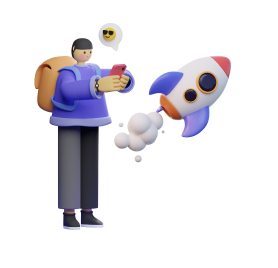
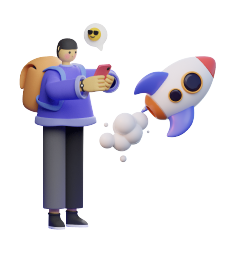
Signup Page Completed

Changed region(s): [[0.0609, 0.1493, 0.9435, 0.8657], [0.3348, 0.0896, 0.487, 0.209]]

diff --git a/app/(pages)/(public)/(auth)/join/page.tsx b/app/(pages)/(public)/(auth)/join/page.tsx
@@ -1,266 +1,76 @@
 "use client";
 
-import { useState } from "react";
-import Image from "next/image";
-import Link from "next/link";
-import { Eye, EyeOff } from "lucide-react";
-import logo from "@/public/images/logo.png";
-import character from "@/public/images/character.png";
-import rocket from "@/public/images/rocket.png";
+import { useForm } from "react-hook-form";
+import { zodResolver } from "@hookform/resolvers/zod";
+import { signupSchema } from "@/app/utils/validators";
+import { InputForm } from "@/app/components/InputForm";
+
+interface SignupFormProps {
+  fullname: string;
+  email: string;
+  password: string;
+  confirmPassword: string;
+  walletAddress: string;
+}
 
 export default function SignupPage() {
-  const [showPassword, setShowPassword] = useState(false);
-  const [showConfirmPassword, setShowConfirmPassword] = useState(false);
-  const [formData, setFormData] = useState({
-    fullname: "",
-    email: "",
-    password: "",
-    confirmPassword: "",
-    walletAddress: "",
+  const {
+    register,
+    handleSubmit,
+    formState: { errors },
+  } = useForm<SignupFormProps>({
+    resolver: zodResolver(signupSchema),
   });
 
-  const handleInputChange = (e: React.ChangeEvent<HTMLInputElement>) => {
-    const { name, value } = e.target;
-    setFormData((prev) => ({
-      ...prev,
-      [name]: value,
-    }));
-  };
-
-  const handleSubmit = async (e: React.FormEvent) => {
-    e.preventDefault();
-    // TODO: Implement signup logic
-    console.log("Form submitted:", formData);
+  const onSubmit = (data: SignupFormProps) => {
+    console.log(data);
   };
 
   return (
-    <div className="min-h-screen relative flex flex-col md:flex-row">
-      {/* Desktop Rocket */}
-      <div
-        className="hidden md:block absolute left-[45%] top-1/3 -translate-x-1/2 -translate-y-1/2"
-        style={{ zIndex: 1000 }}
+    <form onSubmit={handleSubmit(onSubmit)} className="space-y-3">
+      <InputForm
+        {...register("fullname")}
+        label="Fullname"
+        error={errors.fullname?.message}
+        placeholder="Enter your username"
+      />
+
+      <InputForm
+        {...register("email")}
+        label="Email"
+        error={errors.email?.message}
+        placeholder="Enter your email"
+      />
+
+      <InputForm
+        {...register("password")}
+        label="Password"
+        type="password"
+        error={errors.password?.message}
+        placeholder="Enter your password"
+      />
+
+      <InputForm
+        {...register("confirmPassword")}
+        label="Confirm Password"
+        type="password"
+        error={errors.confirmPassword?.message}
+        placeholder="Confirm your password"
+      />
+
+      <InputForm
+        {...register("walletAddress")}
+        label="Wallet Address"
+        error={errors.walletAddress?.message}
+        placeholder="Enter your wallet address"
+      />
+
+      <button
+        type="submit"
+        className="w-full flex justify-center py-2 px-4 border border-transparent rounded-md text-base font-bold text-Button/Primary bg-Button/Primary-background hover:bg-Heading/H1-main focus:outline-none hover:text-white"
       >
-        <Image
-          src={rocket}
-          alt="Rocket illustration"
-          width={400}
-          height={400}
-          className="object-contain"
-        />
-      </div>
-
-      {/* Mobile Illustration Section */}
-      <div className="md:hidden bg-gradient-to-b pt-12 pb-10 from-[#10B981] to-[#8B5CF6] p-6 flex flex-col items-center justify-center relative">
-        <div className="relative w-full h-[200px] flex justify-center mb-[-2rem]">
-          <div
-            className="absolute left-1/2 -translate-x-1/2 top-1/2 -translate-y-1/2"
-            style={{ zIndex: 1000 }}
-          >
-            <Image
-              src={character}
-              alt="Character illustration"
-              width={180}
-              height={180}
-              className="object-contain"
-            />
-          </div>
-          <div
-            className="absolute right-[-25px] top-1/3 -translate-y-1/2"
-            style={{ zIndex: 1000 }}
-          >
-            <Image
-              src={rocket}
-              alt="Rocket illustration"
-              width={200}
-              height={200}
-              className="object-contain"
-            />
-          </div>
-        </div>
-      </div>
-
-      {/* Desktop Illustration Section */}
-      <div className="hidden md:flex flex-1 bg-gradient-to-b from-[#7FE7D7] to-[#CEB0F0] p-8 flex-col justify-center items-center text-center relative">
-        <div className="max-w-md relative z-10">
-          <div className="relative w-full h-[400px]">
-            <div className="absolute left-0 top-1/2 -translate-y-1/2">
-              <Image
-                src={character}
-                alt="Character illustration"
-                width={300}
-                height={300}
-                className="object-contain"
-              />
-            </div>
-          </div>
-          <h2 className="text-3xl font-extrabold text-white mb-4">
-            Capture and Share Moments for the Future
-          </h2>
-          <p className="text-lg font-semibold text-white mb-8">
-            Send messages or media that unlock at the perfect moment.
-          </p>
-        </div>
-      </div>
-
-      {/* Right Section with Form */}
-      <div
-        className="flex-1 px-6 md:px-8 py-8 md:py-12 md:border-l md:rounded-l-full rounded-[2rem] flex flex-col justify-center items-start bg-white relative -mt-8 md:mt-0"
-        style={{ zIndex: 1 }}
-      >
-        <div className="border w-[190px] hidden md:flex border-[#10B981] rounded-full py-2 justify-center items-center mb-10">
-          <Image
-            src={logo}
-            alt="TimelyCapsule Logo"
-            width={150}
-            height={150}
-            className="object-contain"
-          />
-        </div>
-        <div className="w-full max-w-md mx-auto">
-          <div className="text-center mb-8">
-            <h1 className="text-2xl md:text-3xl font-extrabold mb-1">
-              Join Timely<span className="text-[#10B981]">Capsule</span>
-            </h1>
-            <p className="text-base md:text-lg font-semibold text-gray-600">
-              Unlock your capsules across time and space.
-            </p>
-          </div>
-
-          <form onSubmit={handleSubmit} className="space-y-4 w-full">
-            <div className="space-y-4 mb-8">
-              <div>
-                <label
-                  htmlFor="fullname"
-                  className="block text-sm font-medium text-gray-700 mb-1"
-                >
-                  Fullname
-                </label>
-                <input
-                  type="text"
-                  id="fullname"
-                  name="fullname"
-                  value={formData.fullname}
-                  onChange={handleInputChange}
-                  placeholder="Enter your username"
-                  className="w-full px-4 py-3 border text-sm font-medium border-gray-300 rounded-lg focus:ring-2 focus:ring-[#7FE7D7] focus:border-transparent"
-                  required
-                />
-              </div>
-
-              <div>
-                <label
-                  htmlFor="email"
-                  className="block text-sm font-medium text-gray-700 mb-1"
-                >
-                  Email
-                </label>
-                <input
-                  type="email"
-                  id="email"
-                  name="email"
-                  value={formData.email}
-                  onChange={handleInputChange}
-                  placeholder="Enter your email"
-                  className="w-full px-4 py-3 border text-sm font-medium border-gray-300 rounded-lg focus:ring-2 focus:ring-[#7FE7D7] focus:border-transparent"
-                  required
-                />
-              </div>
-
-              <div>
-                <label
-                  htmlFor="password"
-                  className="block text-sm font-medium text-gray-700 mb-1"
-                >
-                  Password
-                </label>
-                <div className="relative">
-                  <input
-                    type={showPassword ? "text" : "password"}
-                    id="password"
-                    name="password"
-                    value={formData.password}
-                    onChange={handleInputChange}
-                    placeholder="Enter your password"
-                    className="w-full px-4 py-3 border text-sm font-medium border-gray-300 rounded-lg focus:ring-2 focus:ring-[#7FE7D7] focus:border-transparent"
-                    required
-                  />
-                  <button
-                    type="button"
-                    onClick={() => setShowPassword(!showPassword)}
-                    className="absolute right-3 top-1/2 -translate-y-1/2"
-                  >
-                    {showPassword ? <EyeOff size={20} /> : <Eye size={20} />}
-                  </button>
-                </div>
-              </div>
-
-              <div>
-                <label
-                  htmlFor="confirmPassword"
-                  className="block text-sm font-medium text-gray-700 mb-1"
-                >
-                  Confirm Password
-                </label>
-                <div className="relative">
-                  <input
-                    type={showConfirmPassword ? "text" : "password"}
-                    id="confirmPassword"
-                    name="confirmPassword"
-                    value={formData.confirmPassword}
-                    onChange={handleInputChange}
-                    placeholder="Confirm your password"
-                    className="w-full px-4 py-3 border text-sm font-medium border-gray-300 rounded-lg focus:ring-2 focus:ring-[#7FE7D7] focus:border-transparent"
-                    required
-                  />
-                  <button
-                    type="button"
-                    onClick={() => setShowConfirmPassword(!showConfirmPassword)}
-                    className="absolute right-3 top-1/2 -translate-y-1/2"
-                  >
-                    {showConfirmPassword ? (
-                      <EyeOff size={20} />
-                    ) : (
-                      <Eye size={20} />
-                    )}
-                  </button>
-                </div>
-              </div>
-
-              <div>
-                <label
-                  htmlFor="walletAddress"
-                  className="block text-sm font-medium text-gray-700 mb-1"
-                >
-                  Wallet Address
-                </label>
-                <input
-                  type="text"
-                  id="walletAddress"
-                  name="walletAddress"
-                  value={formData.walletAddress}
-                  onChange={handleInputChange}
-                  placeholder="Enter your wallet address"
-                  className="w-full px-4 py-3 border text-sm font-medium border-gray-300 rounded-lg focus:ring-2 focus:ring-[#7FE7D7] focus:border-transparent"
-                  required
-                />
-              </div>
-            </div>
-
-            <button
-              type="submit"
-              className="w-full bg-gray-500 font-bold py-3 rounded-lg hover:bg-gray-600 transition-colors"
-            >
-              Sign Up
-            </button>
-          </form>
-          <p className="text-center text-base md:text-lg font-semibold text-gray-600 mt-16">
-            Already have an account?{" "}
-            <Link href="/enter" className="text-[#7FE7D7] hover:underline">
-              Sign in
-            </Link>
-          </p>
-        </div>
-      </div>
-    </div>
+        Sign Up
+      </button>
+    </form>
   );
 }

diff --git a/app/(pages)/(public)/(auth)/layout.tsx b/app/(pages)/(public)/(auth)/layout.tsx
@@ -15,8 +15,8 @@ export default function AuthLayout({
 }) {
   return (
     <div className="flex flex-col md:flex-row h-screen relative font-manrope bg-auth-background-mobile md:bg-auth-background min-h-[900px] lg:max-h-[1117px]">
-      <div className="h-[20%] md:h-full md:flex-1 p-8 flex flex-col justify-center items-center md:-mt-[6rem]">
-        <div className="absolute -top-[3%] left-[35%] sm:left-[40%] md:left-[0%] md:top-[0%] md:relative w-full h-full max-w-[259px] max-h-[268px] md:max-w-[550px] md:max-h-[926px]">
+      <div className="h-[20%] md:h-full md:flex-1 p-16 flex flex-col justify-center items-center md:-mt-[6rem]">
+        <div className="absolute -top-[2%] left-[28%] sm:left-[40%] md:left-[0%] md:top-[0%] md:relative w-full h-full max-w-[259px] max-h-[268px] md:max-w-[550px] md:max-h-[926px]">
           <Image
             src={character}
             alt="Character illustration"
@@ -46,7 +46,7 @@ export default function AuthLayout({
         rounded-tl-[50px] rounded-tr-[50px] rounded-bl-[20px] rounded-br-[20px] md:rounded-tl-[50px] md:rounded-tr-none md:rounded-bl-[50px] md:rounded-br-none"
         >
           <div className="flex-col justify-start items-start max-w-md w-full hidden md:flex">
-            <div className="text-left mb-8">
+            <div className="text-left">
               <Image
                 src={logo}
                 alt="TimelyCapsule Logo"
@@ -56,8 +56,8 @@ export default function AuthLayout({
               />
             </div>
           </div>
-          <div className="max-w-[581px] w-full mx-auto">
-            <h2 className="text-[32px] text-Heading/H1-mainTwo font-extrabold text-center mb-2 md:-mt-[5rem]">
+          <div className="max-w-[581px] w-full mx-auto md:mt-[10px]">
+            <h2 className="text-[32px] text-Heading/H1-mainTwo font-extrabold text-center mb-2">
               Join Timely
               <span className="text-Heading/H1-main font-extrabold">
                 Capsule
@@ -67,9 +67,7 @@ export default function AuthLayout({
               Unlock your capsules across time and space.
             </p>
           </div>
-          <div className="max-w-[581px] w-full mx-auto mt-[4rem]">
-            {children}
-          </div>
+          <div className="max-w-[581px] w-full mx-auto mt-8">{children}</div>
           <div className="max-w-md w-full mx-auto">
             <p className="mt-6 text-center text-lg text-Subheading/H4 font-semibold">
               Already have an account?{" "}

diff --git a/app/utils/validators.ts b/app/utils/validators.ts
@@ -1,5 +1,20 @@
 import * as z from "zod";
 
+export const signupSchema = z
+  .object({
+    fullname: z.string().min(2, "Full name must be at least 2 characters"),
+    email: z.string().email("Invalid email address"),
+    password: z.string().min(6, "Password must be at least 6 characters"),
+    confirmPassword: z
+      .string()
+      .min(6, "Password must be at least 6 characters"),
+    walletAddress: z.string().min(1, "Wallet address is required"),
+  })
+  .refine((data) => data.password === data.confirmPassword, {
+    message: "Passwords don't match",
+    path: ["confirmPassword"],
+  });
+
 export const loginSchema = z.object({
   email: z.string().email("Invalid email address"),
   password: z.string().min(6, "Password must be at least 6 characters"),
